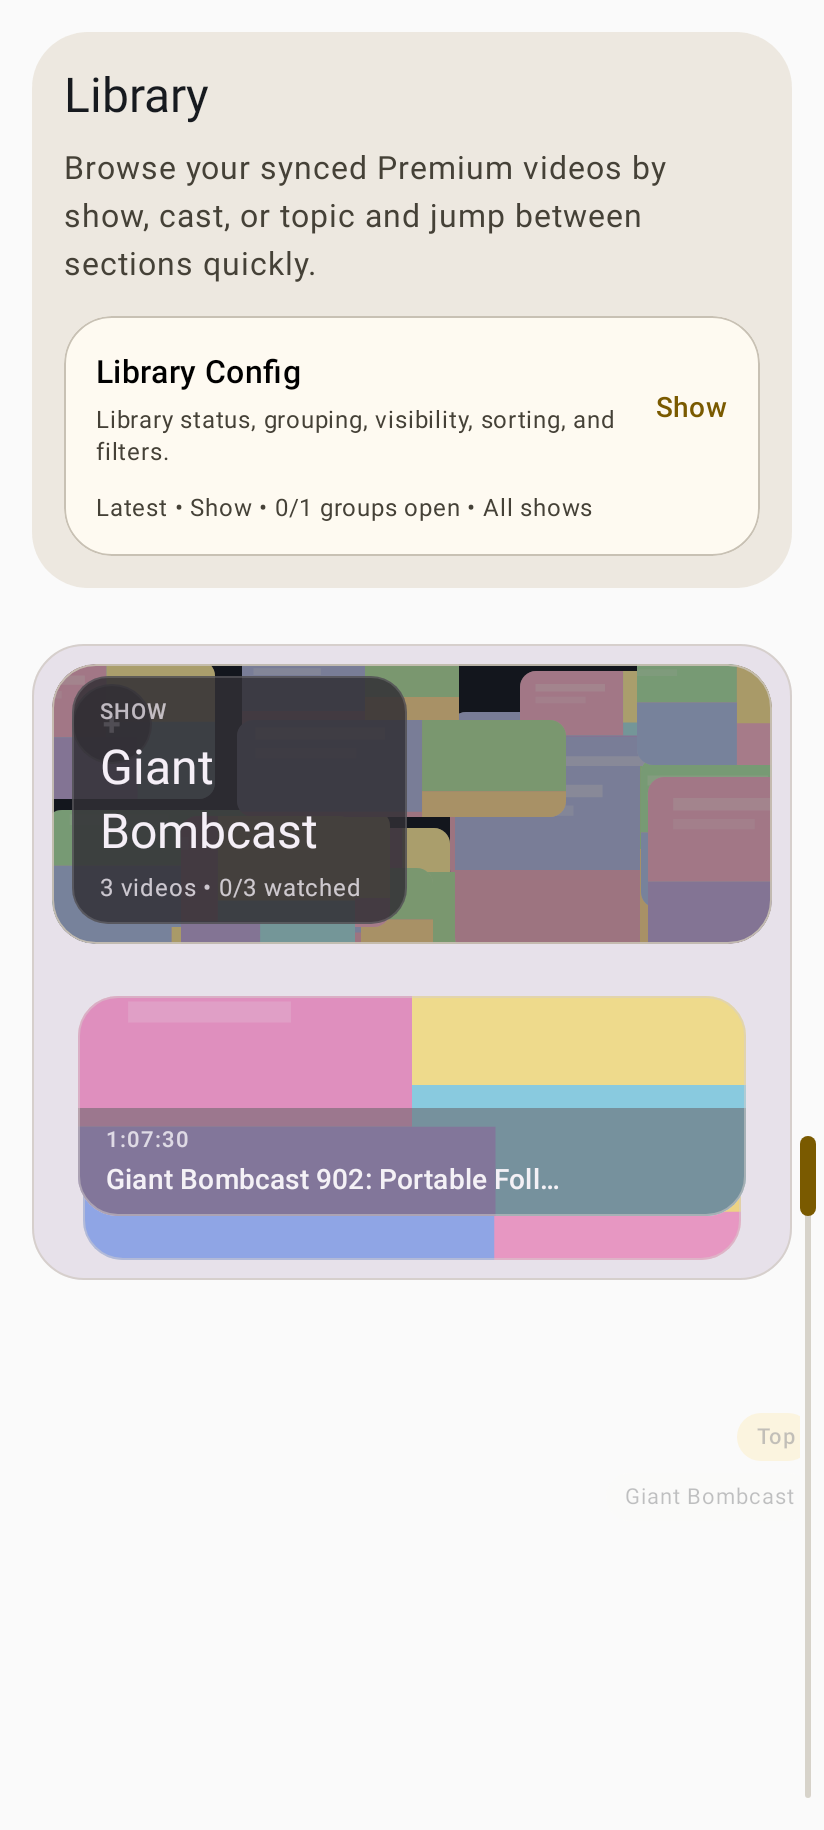
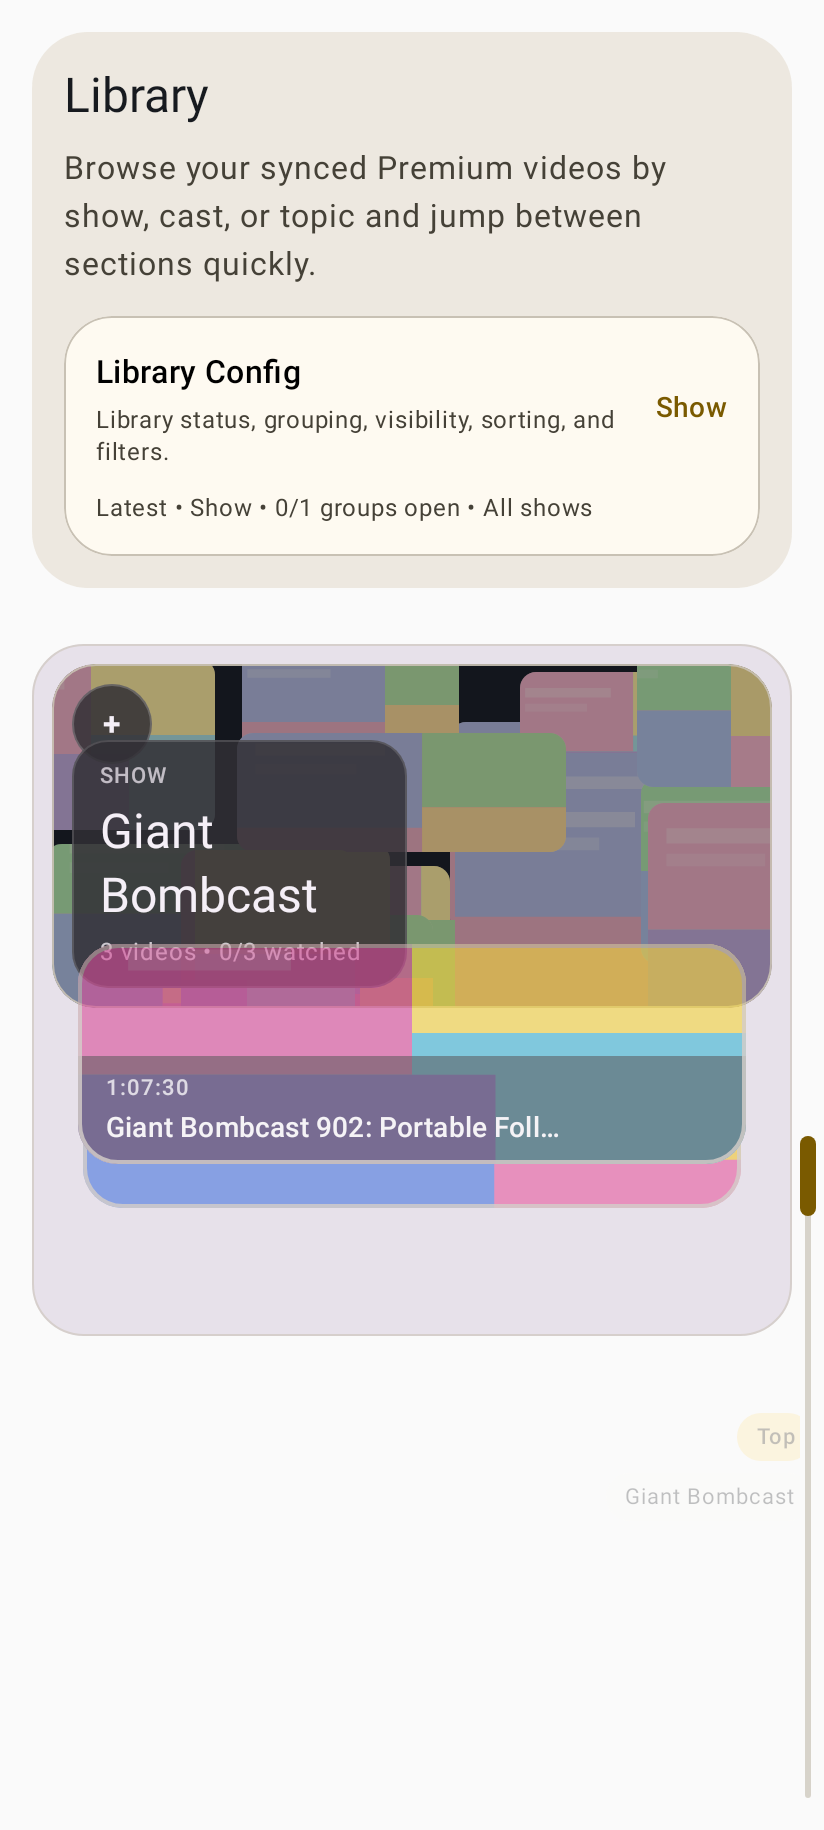
Tuck collapsed cards under header, fix affordance overlap, faster animation
- Increased collapsed header to 172dp so affordance and info plate
  have room and don't overlap.
- Stacked compact video cards now tuck 54dp under the header so only
  the bottom metadata banner + sliver of thumbnail peeks out, matching
  the mockup's "video cards sliding under header" concept.
- Stronger 2dp borders on compact cards for visual distinction against
  the mosaic backdrop.
- Collapse/expand animateContentSize reduced to 200ms tween for
  responsive, snappy transitions.
- Zero spacing between header and stacked cards in collapsed state
  since the tuck offset handles the visual overlap.

Changed region(s): [[0.0303, 0.3426, 0.9709, 0.7475]]

diff --git a/feature/library/src/main/java/com/looktube/feature/library/LibraryRoute.kt b/feature/library/src/main/java/com/looktube/feature/library/LibraryRoute.kt
@@ -602,7 +602,7 @@ private fun CollapsedHeaderPreviewCard(
     Card(
         modifier = modifier,
         shape = RoundedCornerShape(20.dp),
-        border = BorderStroke(1.dp, MaterialTheme.colorScheme.outlineVariant.copy(alpha = 0.5f)),
+        border = BorderStroke(2.dp, MaterialTheme.colorScheme.outlineVariant.copy(alpha = 0.82f)),
     ) {
         Box(
             modifier = Modifier.fillMaxSize(),
@@ -1090,9 +1090,9 @@ private val GROUP_HEADER_PEEK_REVEAL_STEP = 22.dp
 private val GROUP_HEADER_PEEK_HORIZONTAL_STAGGER = 18.dp
 private const val GROUP_HEADER_PEEK_CARD_WIDTH_FRACTION = 0.96f
 private val GROUP_HEADER_COMPACT_PREVIEW_CARD_HEIGHT = 110.dp
-private val GROUP_HEADER_COLLAPSED_HEADER_MIN_HEIGHT = 140.dp
+private val GROUP_HEADER_COLLAPSED_HEADER_MIN_HEIGHT = 172.dp
 private val GROUP_HEADER_EXPANDED_HEADER_MIN_HEIGHT = 236.dp
-private val GROUP_HEADER_COLLAPSED_PREVIEW_OVERLAP = (-8).dp
+private val GROUP_HEADER_COLLAPSED_CARD_TUCK = (-54).dp
 private const val GROUP_HEADER_MOSAIC_TILE_COUNT = 18
 
 internal fun generateMosaicTiles(sectionKey: String, videoCount: Int): List<GroupHeaderBackdropTileSpec> {
@@ -1495,7 +1495,9 @@ private fun GroupedSeriesSectionCard(
     Surface(
         modifier = Modifier
             .fillMaxWidth()
-            .animateContentSize(),
+            .animateContentSize(
+                animationSpec = tween(durationMillis = 200),
+            ),
         shape = RoundedCornerShape(26.dp),
         color = MaterialTheme.colorScheme.surfaceContainerHighest.copy(alpha = 0.94f),
         tonalElevation = 0.dp,
@@ -1503,7 +1505,7 @@ private fun GroupedSeriesSectionCard(
     ) {
         Column(
             modifier = Modifier.padding(10.dp),
-            verticalArrangement = Arrangement.spacedBy(if (isExpanded) 12.dp else 4.dp),
+            verticalArrangement = Arrangement.spacedBy(if (isExpanded) 12.dp else 0.dp),
         ) {
             if (isExpanded) {
                 Box(
@@ -1537,9 +1539,10 @@ private fun GroupedSeriesSectionCard(
                         textEndPadding = headerTextEndPadding,
                         modifier = Modifier
                             .fillMaxWidth()
+                            .offset(y = GROUP_HEADER_COLLAPSED_CARD_TUCK)
                             .padding(horizontal = 6.dp)
                             .height(collapsedPreviewStackHeight)
-                            .graphicsLayer { alpha = 0.55f },
+                            .graphicsLayer { alpha = 0.6f },
                     )
                 }
             }
